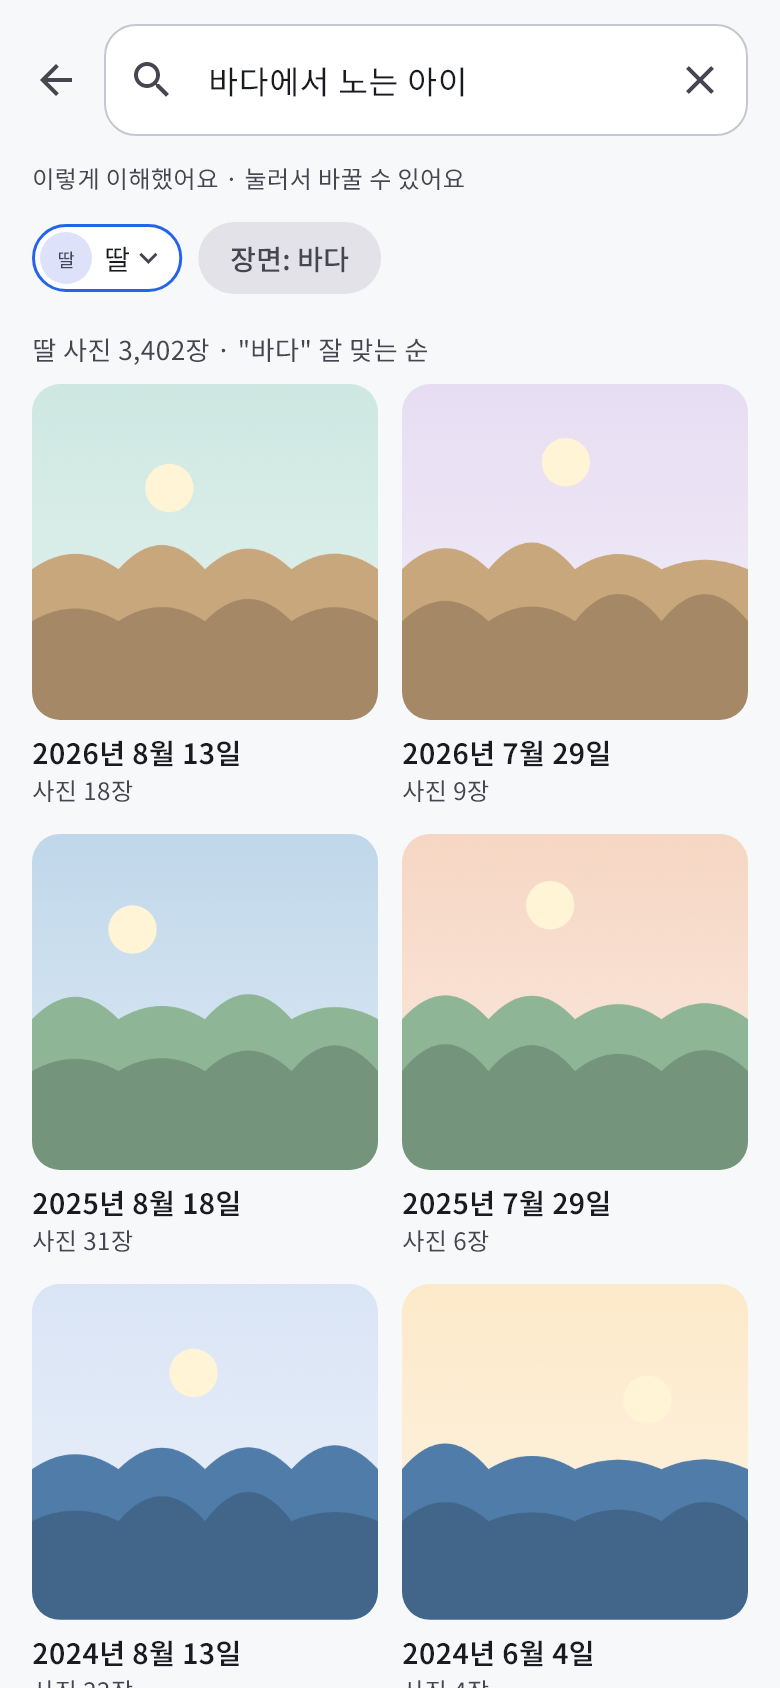
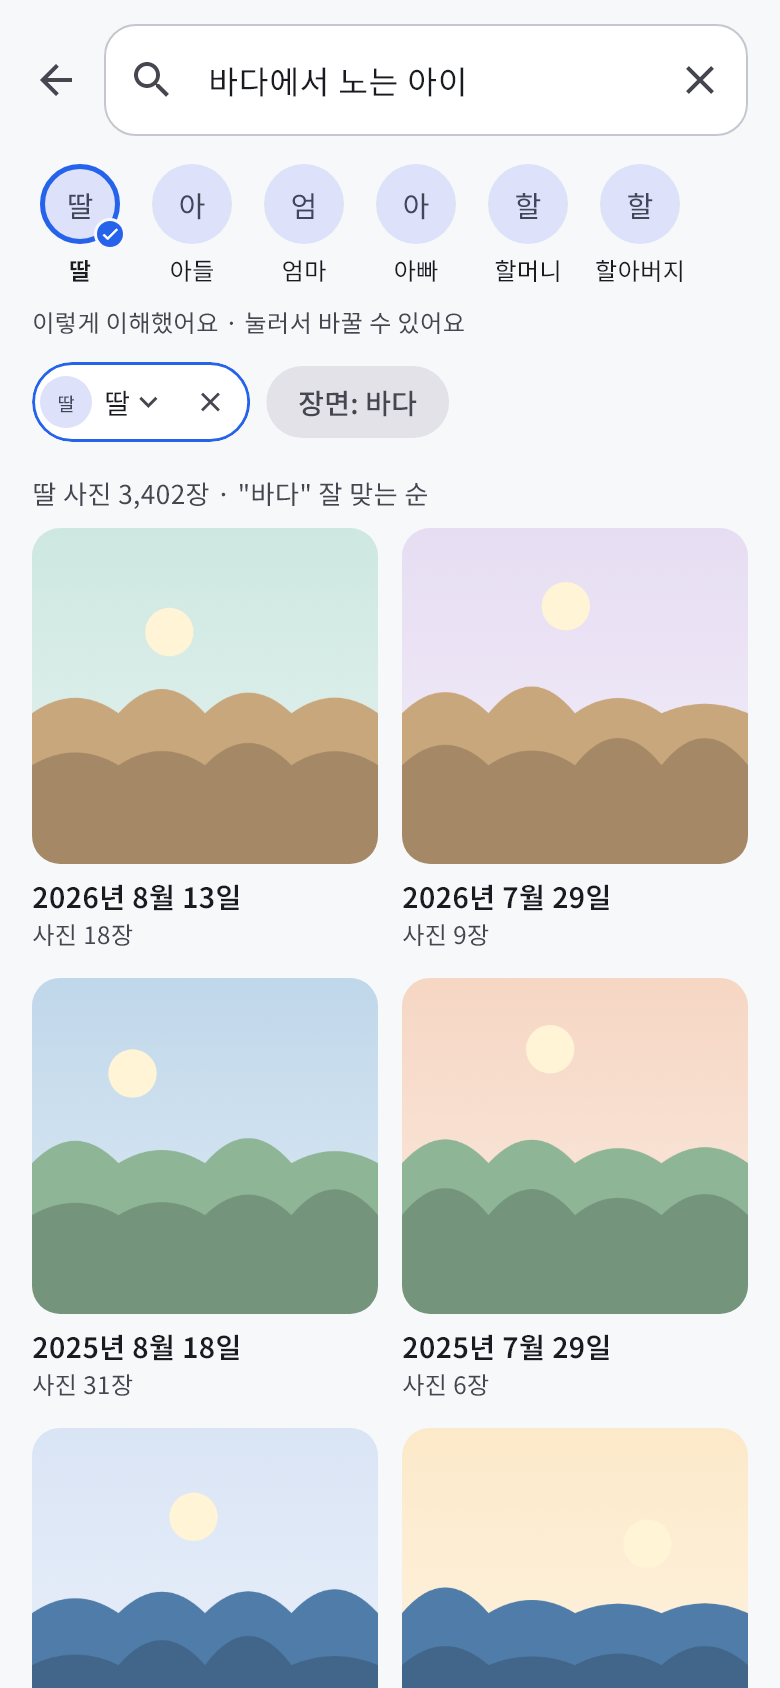
검색: 결과 화면에서 인물 여러 명 고르기와 한 명씩 빼기
- 결과 화면 맨 위에 얼굴 줄(아바타 40dp): 결과에 든 사람은 테두리+체크, 누르면 더하기/빼기 후 바로 다시 검색
- 인물 칩에 ✕(누르기 영역 40dp, "○○ 빼기") — 칩 본체는 지금처럼 '누구인가요?'
- 고른 상태는 검색어 글자로만 둔다: 더하면 앞쪽 인물 낱말 뒤에 이름을 넣고, 빼면 그 낱말(조사 붙은 것 포함)을 지움
  — 검색창 글자와 화면의 고른 사람이 어긋나지 않는다
- 인물을 다 빼면 남은 말로 장면 검색, 남은 말이 없으면 처음 화면
- 처음 화면에서 한 명 누르면 바로 결과가 나오는 흐름은 그대로
- 테스트 3개(더하기·빼기·토글, 조사 붙은 검색어, 좁은 화면·큰 글씨), README 검색 화면 다시 그림

한계: "엄마의 딸"은 Kotlin이 낱말마다 칩을 돌려줘서, 딸 칩 ✕를 누르면 "엄마의"가 남아 엄마로 검색된다.

폰(레드미)에서 확인: 한 명 → 얼굴 줄로 한 명 더(교집합 결과) → 칩 ✕ → 얼굴 줄로 마지막 빼기 → 처음 화면.

Closes #14
Closes #15

Claude-Session: https://claude.ai/code/session_012zh1kHwaVLLQ6nFo98kw4q

diff --git a/app/lib/ui/search.dart b/app/lib/ui/search.dart
@@ -24,6 +24,11 @@ class _SearchPageState extends State<SearchPage> {
   bool hint = false; // 칩을 한 번도 안 눌렀으면 "눌러서 바꿀 수 있어요"
   Map<int, Map<String, dynamic>> people = {}; // 등록한 인물: id → 이름·관계·대표 얼굴
   List<String> recent = [];
+  String query = ''; // 마지막으로 검색한 말. 인물 더하기·빼기(#14·#15)는 이 글자를 고쳐 다시 검색한다(따로 상태 없음)
+  // Kotlin Search와 같은 조사·군말: "딸이랑"의 낱말은 "딸", "사진"만 남으면 검색할 말이 없는 것
+  static const josa = ['이하고', '이랑', '이와', '이가', '이는', '이를', '이의', '이도', '이만', '에게', '한테', '하고',
+      '랑', '와', '과', '의', '은', '는', '이', '가', '을', '를', '도', '만'];
+  static const filler = {'사진', '사진들', '같이', '함께', '나온', '있는', '찍은'};
 
   @override
   void initState() {
@@ -50,6 +55,7 @@ class _SearchPageState extends State<SearchPage> {
     q = q.trim();
     if (q.isEmpty) return;
     ctrl.text = q;
+    query = q;
     focus.unfocus();
     if (!keepPicks) picks.clear();
     setState(() { busy = true; error = null; });
@@ -78,7 +84,53 @@ class _SearchPageState extends State<SearchPage> {
 
   void clear() {
     ctrl.clear();
+    query = '';
     setState(() { items = null; words = []; picks.clear(); });
+  }
+
+  List<String> tokens(String q) => q.trim().split(RegExp(r'\s+')).where((t) => t.isNotEmpty).toList();
+
+  /// 검색어 낱말 tok이 인물 낱말 word인지: 그대로이거나 조사가 붙은 것("딸", "딸이랑")
+  bool isWord(String tok, String word) => tok == word || josa.any((j) => tok == '$word$j');
+
+  /// 인물 빼기(#15): 검색어에서 그 낱말들을 지우고 다시 검색. 남은 말이 없으면 처음 화면
+  void dropWords(Iterable<String> ws) {
+    if (busy) return;
+    final drop = ws.toSet();
+    final left = tokens(query).where((t) => !drop.any((w) => isWord(t, w))).toList();
+    for (final w in drop) {
+      picks.remove(w);
+    }
+    if (left.every(filler.contains)) {
+      clear();
+    } else {
+      run(left.join(' '), keepPicks: true);
+    }
+  }
+
+  /// 인물 더하기(#14): 검색어 맨 앞 인물 낱말들 뒤에 이름을 넣어 다시 검색("딸 바다" + 아들 → "딸 아들 바다").
+  /// 이름의 빈칸은 뺀다(Kotlin도 빈칸 없이 맞춘다). 이름이 이미 검색어에 있는데 다른 사람으로 풀렸으면 그 사람으로 고른다
+  void addPerson(int id) {
+    if (busy) return;
+    final name = (people[id]!['name'] as String).replaceAll(' ', '');
+    final toks = tokens(query);
+    if (toks.any((t) => isWord(t, name))) {
+      picks[name] = [id];
+      run(query, keepPicks: true);
+      return;
+    }
+    var i = 0;
+    while (i < toks.length && words.any((w) => isWord(toks[i], w['word'] as String))) {
+      i++;
+    }
+    toks.insert(i, name);
+    run(toks.join(' '), keepPicks: true);
+  }
+
+  /// 결과 화면 얼굴 줄: 결과에 든 사람이면 빼고, 아니면 더한다
+  void toggle(int id) {
+    final hits = [for (final w in words) if (ints(w['chosen']).contains(id)) w['word'] as String];
+    hits.isEmpty ? addPerson(id) : dropWords(hits);
   }
 
   List<int> ints(dynamic l) => (l as List).map((e) => (e as num).toInt()).toList();
@@ -89,27 +141,96 @@ class _SearchPageState extends State<SearchPage> {
     return names.length <= 1 ? (names.isEmpty ? '?' : names.first) : '${names.first} 외 ${names.length - 1}명';
   }
 
-  /// 인물 칩: 작은 얼굴 + 이름 + ▾. 테두리가 있는 칩 모양이라 누를 수 있는 것이 보이게(#5)
+  /// 인물 칩: 작은 얼굴 + 이름 + ▾ + ✕. 테두리가 있는 칩 모양이라 누를 수 있는 것이 보이게(#5).
+  /// 본체를 누르면 누구로 볼지 바꾸기, ✕는 이 낱말을 검색어에서 빼기(#15)
   Widget personChip(BuildContext context, Map<String, dynamic> w) {
     final cs = Theme.of(context).colorScheme;
     final chosen = ints(w['chosen']);
+    final word = w['word'] as String;
     return Material(
       color: Theme.of(context).cardTheme.color,
       shape: StadiumBorder(side: BorderSide(color: cs.primary, width: 1.5)),
-      child: InkWell(
-        customBorder: const StadiumBorder(),
-        onTap: () => choose(context, w),
-        child: Padding(
-          padding: const EdgeInsets.fromLTRB(4, 4, 8, 4),
-          child: Row(mainAxisSize: MainAxisSize.min, children: [
-            FaceAvatar(face: chosen.isEmpty ? null : people[chosen.first]?['face'] as int?, label: w['word'] as String, size: 26),
-            const SizedBox(width: 6),
-            // 검색어가 이름 그대로면 "딸(딸)"처럼 겹치지 않게 이름만, 관계 말(엄마 등)이면 "엄마: 이름"
-            Text(whoLabel(chosen).startsWith(w['word'] as String) ? whoLabel(chosen) : '${w['word']}: ${whoLabel(chosen)}'),
-            Icon(Icons.expand_more, size: 18, color: cs.onSurfaceVariant),
-          ]),
+      clipBehavior: Clip.antiAlias,
+      child: Row(mainAxisSize: MainAxisSize.min, children: [
+        Flexible(
+          child: InkWell(
+            onTap: () => choose(context, w),
+            child: Padding(
+              padding: const EdgeInsets.fromLTRB(4, 7, 2, 7),
+              child: Row(mainAxisSize: MainAxisSize.min, children: [
+                FaceAvatar(face: chosen.isEmpty ? null : people[chosen.first]?['face'] as int?, label: word, size: 26),
+                const SizedBox(width: 6),
+                // 검색어가 이름 그대로면 "딸(딸)"처럼 겹치지 않게 이름만, 관계 말(엄마 등)이면 "엄마: 이름"
+                Flexible(
+                  child: Text(whoLabel(chosen).startsWith(word) ? whoLabel(chosen) : '$word: ${whoLabel(chosen)}',
+                      maxLines: 1, overflow: TextOverflow.ellipsis),
+                ),
+                Icon(Icons.expand_more, size: 18, color: cs.onSurfaceVariant),
+              ]),
+            ),
+          ),
         ),
-      ),
+        IconButton(
+          tooltip: '$word 빼기',
+          onPressed: () => dropWords([word]),
+          icon: const Icon(Icons.close),
+          iconSize: 16,
+          color: cs.onSurfaceVariant,
+          padding: EdgeInsets.zero,
+          constraints: const BoxConstraints(minWidth: 40, minHeight: 40),
+          style: IconButton.styleFrom(tapTargetSize: MaterialTapTargetSize.shrinkWrap),
+        ),
+      ]),
+    );
+  }
+
+  /// 결과 화면 맨 위 얼굴 줄(#14): 결과에 든 사람은 테두리 + 체크. 누르면 더하기/빼기 후 바로 다시 검색
+  Widget faceRow(BuildContext context, List<Map<String, dynamic>> ps) {
+    final cs = Theme.of(context).colorScheme;
+    final on = {for (final w in words) ...ints(w['chosen'])};
+    return SizedBox(
+      height: MediaQuery.textScalerOf(context).scale(16) + 56, // 글자 1배에 약 72dp
+      child: ListView(scrollDirection: Axis.horizontal, padding: const EdgeInsets.symmetric(horizontal: 12), children: [
+        for (final p in ps)
+          Semantics(
+            key: ValueKey('face-${p['id']}'),
+            button: true,
+            selected: on.contains(p['id']),
+            label: '${p['name']} ${on.contains(p['id']) ? '빼기' : '더하기'}',
+            excludeSemantics: true,
+            child: InkWell(
+              borderRadius: BorderRadius.circular(12),
+              onTap: () => toggle(p['id'] as int),
+              child: SizedBox(
+                width: 56,
+                child: Column(children: [
+                  const SizedBox(height: 6),
+                  Stack(clipBehavior: Clip.none, children: [
+                    FaceAvatar(face: p['face'] as int?, label: p['name'] as String, size: 40),
+                    if (on.contains(p['id'])) ...[
+                      Positioned.fill(
+                        child: DecoratedBox(decoration: BoxDecoration(shape: BoxShape.circle, border: Border.all(color: cs.primary, width: 2.5))),
+                      ),
+                      Positioned(
+                        right: -3,
+                        bottom: -3,
+                        child: Container(
+                          width: 16,
+                          height: 16,
+                          decoration: BoxDecoration(color: cs.primary, shape: BoxShape.circle, border: Border.all(color: cs.surface, width: 1.5)),
+                          child: Icon(Icons.check, size: 10, color: cs.onPrimary),
+                        ),
+                      ),
+                    ],
+                  ]),
+                  const SizedBox(height: 4),
+                  Text(p['name'] as String, maxLines: 1, overflow: TextOverflow.ellipsis,
+                      style: TextStyle(fontSize: 12, fontWeight: on.contains(p['id']) ? FontWeight.w600 : null)),
+                ]),
+              ),
+            ),
+          ),
+      ]),
     );
   }
 
@@ -215,7 +336,9 @@ class _SearchPageState extends State<SearchPage> {
   Widget results(BuildContext context) {
     final cs = Theme.of(context).colorScheme;
     final list = items!;
+    final ps = people.values.toList()..sort((a, b) => (b['n'] as int).compareTo(a['n'] as int));
     return CustomScrollView(slivers: [
+      if (ps.isNotEmpty) SliverToBoxAdapter(child: faceRow(context, ps)),
       SliverToBoxAdapter(
         child: Padding(
           padding: const EdgeInsets.fromLTRB(16, 4, 16, 8),

diff --git a/app/test/ui_smoke_test.dart b/app/test/ui_smoke_test.dart
@@ -23,6 +23,7 @@ final people = [
 
 Map<String, dynamic> scenario = {};
 final thumbSizes = <int, List<int>>{}; // 사진 id → 'thumb'로 요청받은 크기들
+final searches = <String>[]; // 'search'로 받은 검색어들
 
 Future<Object?> fake(MethodCall call) async {
   switch (call.method) {
@@ -75,6 +76,24 @@ Future<Object?> fake(MethodCall call) async {
         {'id': 900, 'x': 0.3, 'y': 0.2, 'w': 0.2, 'h': 0.25, 'person': 7, 'who': 1, 'maybe': null, 'sim': 0.6},
       ]};
     case 'search':
+      final q = call.arguments['q'] as String;
+      searches.add(q);
+      if (scenario['dynamicSearch'] == true) {
+        // 검색어 낱말 중 등록 이름(조사 '과'·'와'·'의'를 떼고)은 인물 낱말, 나머지는 장면
+        final ws = <Map<String, dynamic>>[];
+        final rest = <String>[];
+        for (final tok in q.split(' ')) {
+          final f = tok.replaceAll(RegExp(r'(과|와|의)$'), '');
+          final p = people.where((p) => (p['name'] as String).replaceAll(' ', '') == f).firstOrNull;
+          if (p == null) {
+            rest.add(tok);
+          } else {
+            ws.add({'word': f, 'chosen': [p['id']], 'cands': [{'ids': [p['id']], 'note': ''}]});
+          }
+        }
+        return {'items': [{'kind': 'photo', 'cover': 102, 'date': day}], 'rest': rest.join(' '),
+                'who': ws.isEmpty ? null : ws.map((w) => w['word']).join(' · '), 'photos': 1, 'words': ws, 'hint': false};
+      }
       return {'items': [
         {'kind': 'segment', 'id': 1, 'cover': 101, 'n': 18, 'date': day, 'date_source': 'exif'},
         {'kind': 'photo', 'cover': 102, 'date': null, 'received': day},
@@ -100,6 +119,7 @@ void main() {
   setUp(() {
     scenario = {};
     thumbSizes.clear();
+    searches.clear();
     TestDefaultBinaryMessengerBinding.instance.defaultBinaryMessenger.setMockMethodCallHandler(channel, fake);
   });
 
@@ -190,6 +210,80 @@ void main() {
     await t.pump(const Duration(milliseconds: 100));
     await t.pump(const Duration(milliseconds: 100));
     expect(find.text('장면: 바다'), findsOneWidget);
+    await cleanup(t);
+  });
+
+  Future<void> settle(WidgetTester t) async {
+    await t.pump(const Duration(milliseconds: 100));
+    await t.pump(const Duration(milliseconds: 100));
+  }
+
+  testWidgets('검색: 결과 화면에서 인물 더하기(#14), 칩 ✕로 한 명씩 빼기(#15)', (t) async {
+    scenario['dynamicSearch'] = true;
+    await show(t, const Scaffold(body: SearchPage()));
+    await t.tap(find.text('딸').first); // 처음 화면 얼굴 줄: 한 명 누르면 바로 결과
+    await settle(t);
+    expect(searches.last, '딸');
+    expect(find.byTooltip('딸 빼기'), findsOneWidget);
+    await t.tap(find.byKey(const ValueKey('face-1'))); // 결과 화면 얼굴 줄에서 엄마 더하기
+    await settle(t);
+    expect(searches.last, '딸 엄마');
+    expect(find.byTooltip('딸 빼기'), findsOneWidget);
+    expect(find.byTooltip('엄마 빼기'), findsOneWidget);
+    await t.tap(find.byKey(const ValueKey('face-1'))); // 이미 든 사람은 다시 더하지 않고 뺀다
+    await settle(t);
+    expect(searches.last, '딸');
+    await t.tap(find.byKey(const ValueKey('face-2'))); // 빈칸 있는 이름은 빈칸 없이
+    await settle(t);
+    expect(searches.last, '딸 아주긴이름의할아버지');
+    await t.tap(find.byTooltip('딸 빼기'));
+    await settle(t);
+    expect(searches.last, '아주긴이름의할아버지');
+    expect(find.byTooltip('딸 빼기'), findsNothing);
+    final n = searches.length;
+    await t.tap(find.byTooltip('아주긴이름의할아버지 빼기')); // 마지막 하나, 장면 말 없음 → 처음 화면
+    await settle(t);
+    expect(searches.length, n);
+    expect(find.text('인물로 찾기'), findsOneWidget);
+    await cleanup(t);
+  });
+
+  testWidgets('검색: 인물 낱말 앞쪽에 더하고, 다 빼면 장면만 검색', (t) async {
+    scenario['dynamicSearch'] = true;
+    await show(t, const Scaffold(body: SearchPage()));
+    await t.tap(find.text('딸과 바다'));
+    await settle(t);
+    expect(searches.last, '딸과 바다');
+    await t.tap(find.byKey(const ValueKey('face-1')));
+    await settle(t);
+    expect(searches.last, '딸과 엄마 바다'); // 맨 앞 인물 낱말들 뒤, 장면 말 앞
+    await t.tap(find.byKey(const ValueKey('face-3'))); // 얼굴 줄 토글로 빼기: 조사 붙은 낱말째
+    await settle(t);
+    expect(searches.last, '엄마 바다');
+    await t.tap(find.byTooltip('엄마 빼기'));
+    await settle(t);
+    expect(searches.last, '바다');
+    expect(find.text('장면: 바다'), findsNothing); // 인물 칩이 없으면 '이렇게 이해했어요' 줄도 없다
+    expect(find.text('인물로 찾기'), findsNothing); // 결과 화면 그대로
+    await cleanup(t);
+  });
+
+  testWidgets('검색 결과: 좁은 화면 + 큰 글씨에서 얼굴 줄·칩 둘이 넘치지 않는다', (t) async {
+    scenario['dynamicSearch'] = true;
+    t.view.physicalSize = const Size(360, 700) * 3;
+    t.view.devicePixelRatio = 3;
+    await t.pumpWidget(MaterialApp(
+      theme: buildTheme(const Color(0xFF2563EB), Brightness.light),
+      builder: (context, child) => MediaQuery(data: MediaQuery.of(context).copyWith(textScaler: const TextScaler.linear(1.3)), child: child!),
+      home: const Scaffold(body: SearchPage()),
+    ));
+    await settle(t);
+    await t.tap(find.text('딸과 바다'));
+    await settle(t);
+    await t.tap(find.byKey(const ValueKey('face-2')));
+    await settle(t);
+    expect(searches.last, '딸과 아주긴이름의할아버지 바다');
+    expect(find.byTooltip('아주긴이름의할아버지 빼기'), findsOneWidget);
     await cleanup(t);
   });
 
